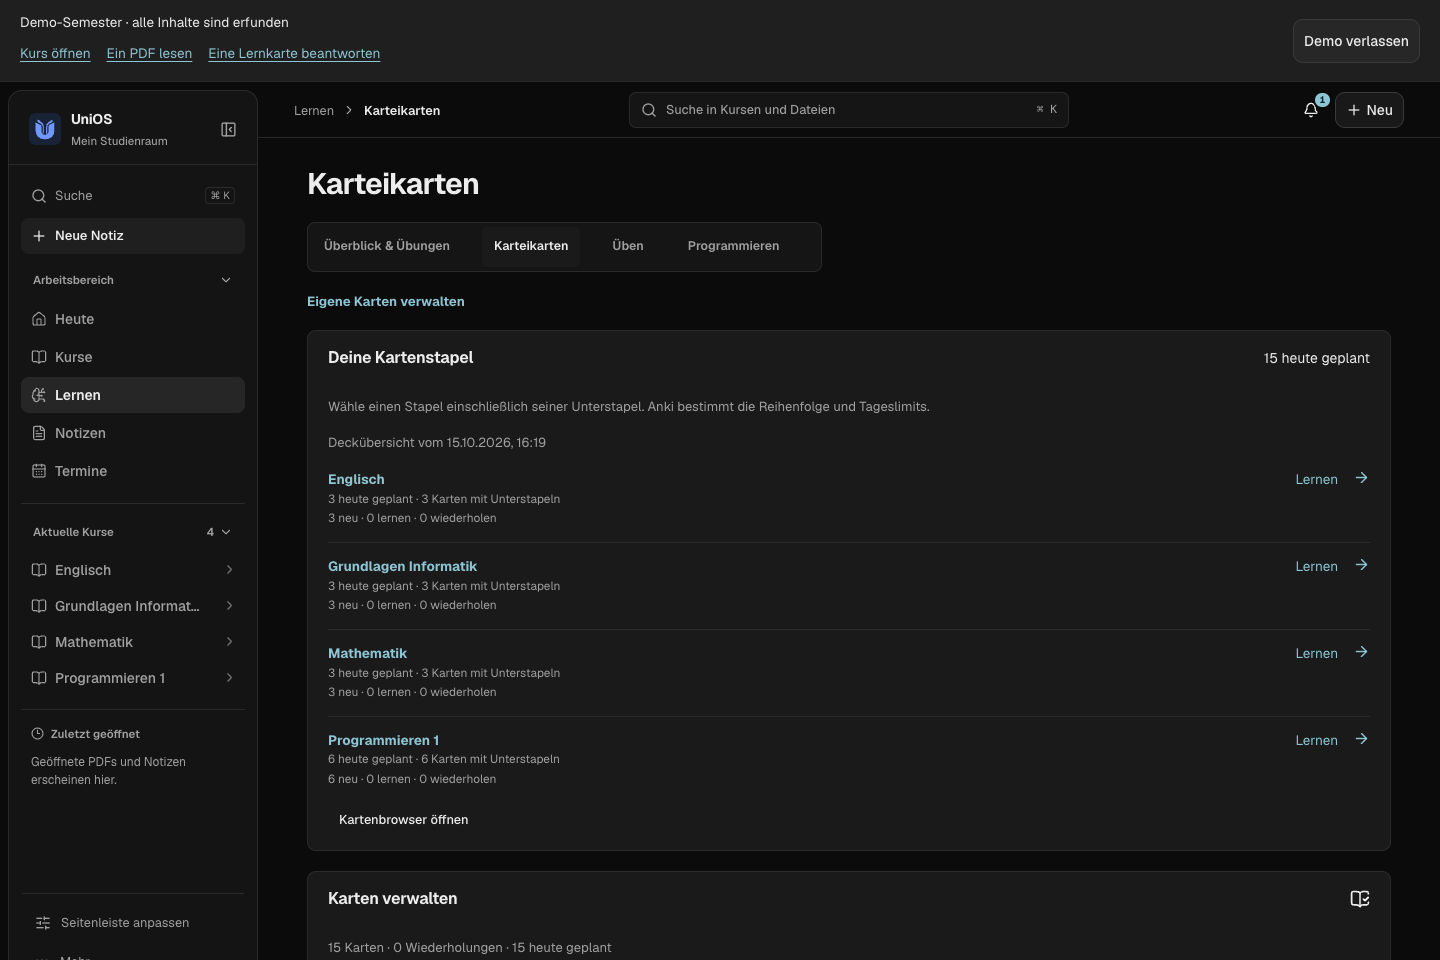
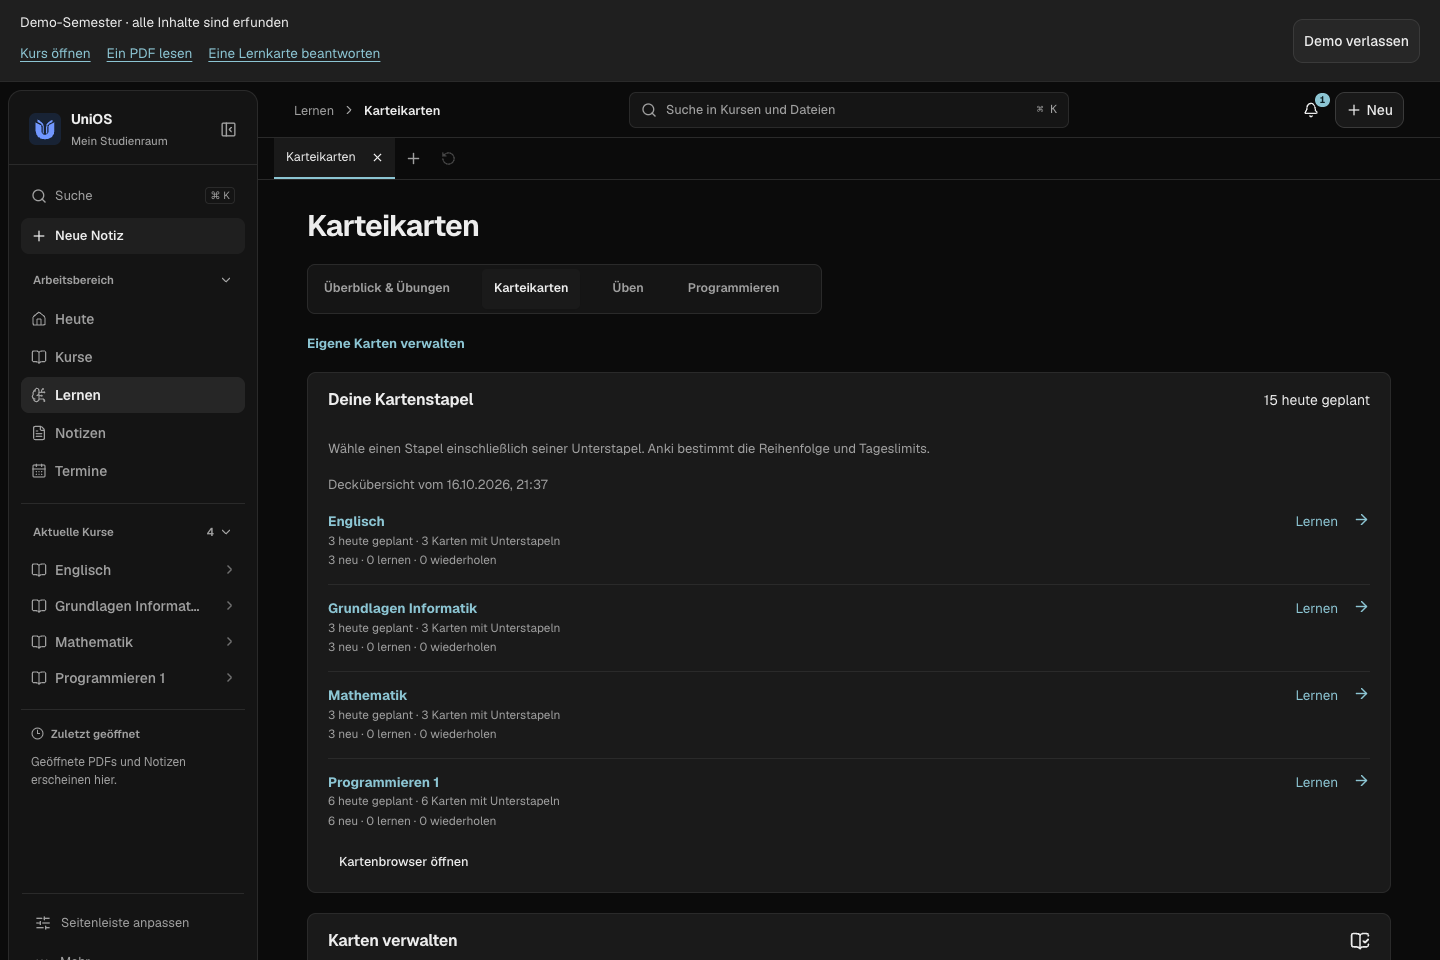
docs(readme): retake screenshots for 0.1.30

diff --git a/docs/readme/current/SCREENSHOTS.md b/docs/readme/current/SCREENSHOTS.md
@@ -2,7 +2,7 @@
 
 # README-Screenshots
 
-Aufgenommen am 15.10.2026 (Stand 0.1.28, PR #19 und alle 17 Dependency-Updates)
+Aufgenommen am 16.10.2026 (Stand 0.1.30)
 mit `scripts/readme_screenshots.mjs` gegen
 die echte React-Oberfläche und einen frisch erzeugten, getrennten Demo-Dienst. Alle
 Inhalte (vier Kurse, 15 Karten, generierte PDFs, die Notiz „Rekursion verstehen“)
